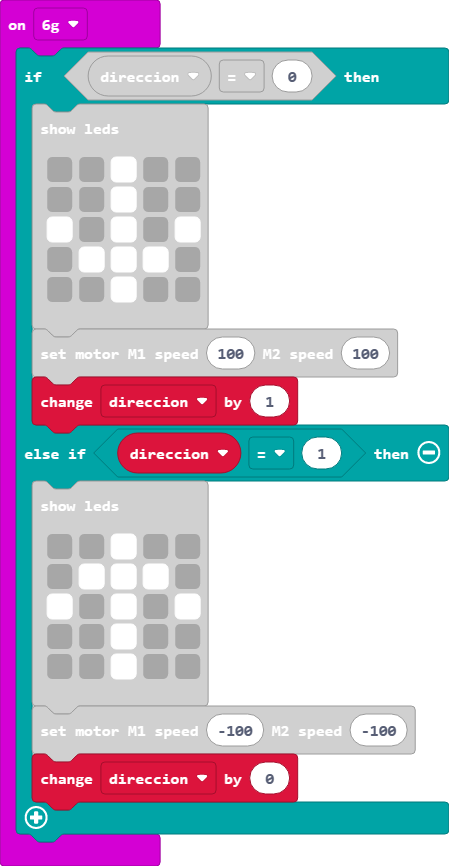
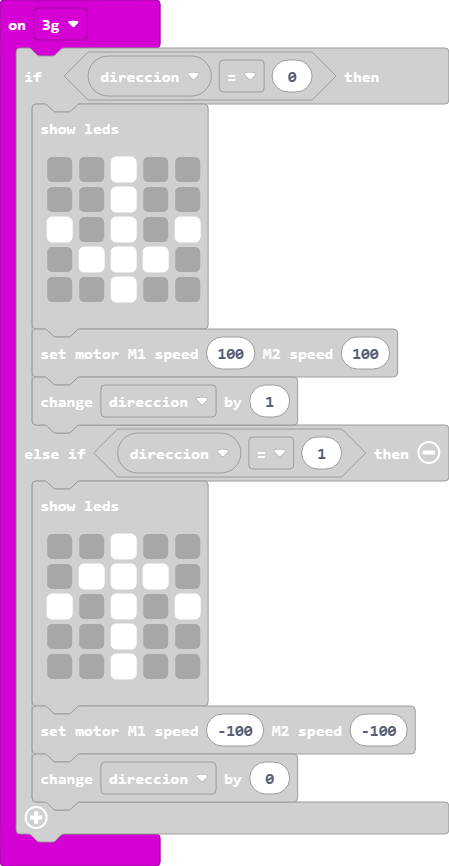
cambio de 6G a 3G

Changed region(s): [[0.0312, 0.0312, 1.0, 0.9977], [0.0935, 0.0, 0.1247, 0.0312]]

diff --git a/main.ts b/main.ts
@@ -9,7 +9,21 @@ input.onButtonPressed(Button.A, function () {
         `)
     wuKong.setAllMotor(-100, -100)
 })
-input.onGesture(Gesture.SixG, function () {
+input.onButtonPressed(Button.AB, function () {
+    wuKong.stopAllMotor()
+})
+input.onButtonPressed(Button.B, function () {
+    direccion = 1
+    basic.showLeds(`
+        . . # . .
+        . . # . .
+        # . # . #
+        . # # # .
+        . . # . .
+        `)
+    wuKong.setAllMotor(100, 100)
+})
+input.onGesture(Gesture.ThreeG, function () {
     if (direccion == 0) {
         basic.showLeds(`
             . . # . .
@@ -31,20 +45,6 @@ input.onGesture(Gesture.SixG, function () {
         wuKong.setAllMotor(-100, -100)
         direccion += 0
     }
-})
-input.onButtonPressed(Button.AB, function () {
-    wuKong.stopAllMotor()
-})
-input.onButtonPressed(Button.B, function () {
-    direccion = 1
-    basic.showLeds(`
-        . . # . .
-        . . # . .
-        # . # . #
-        . # # # .
-        . . # . .
-        `)
-    wuKong.setAllMotor(100, 100)
 })
 let direccion = 0
 basic.showIcon(IconNames.Happy)
